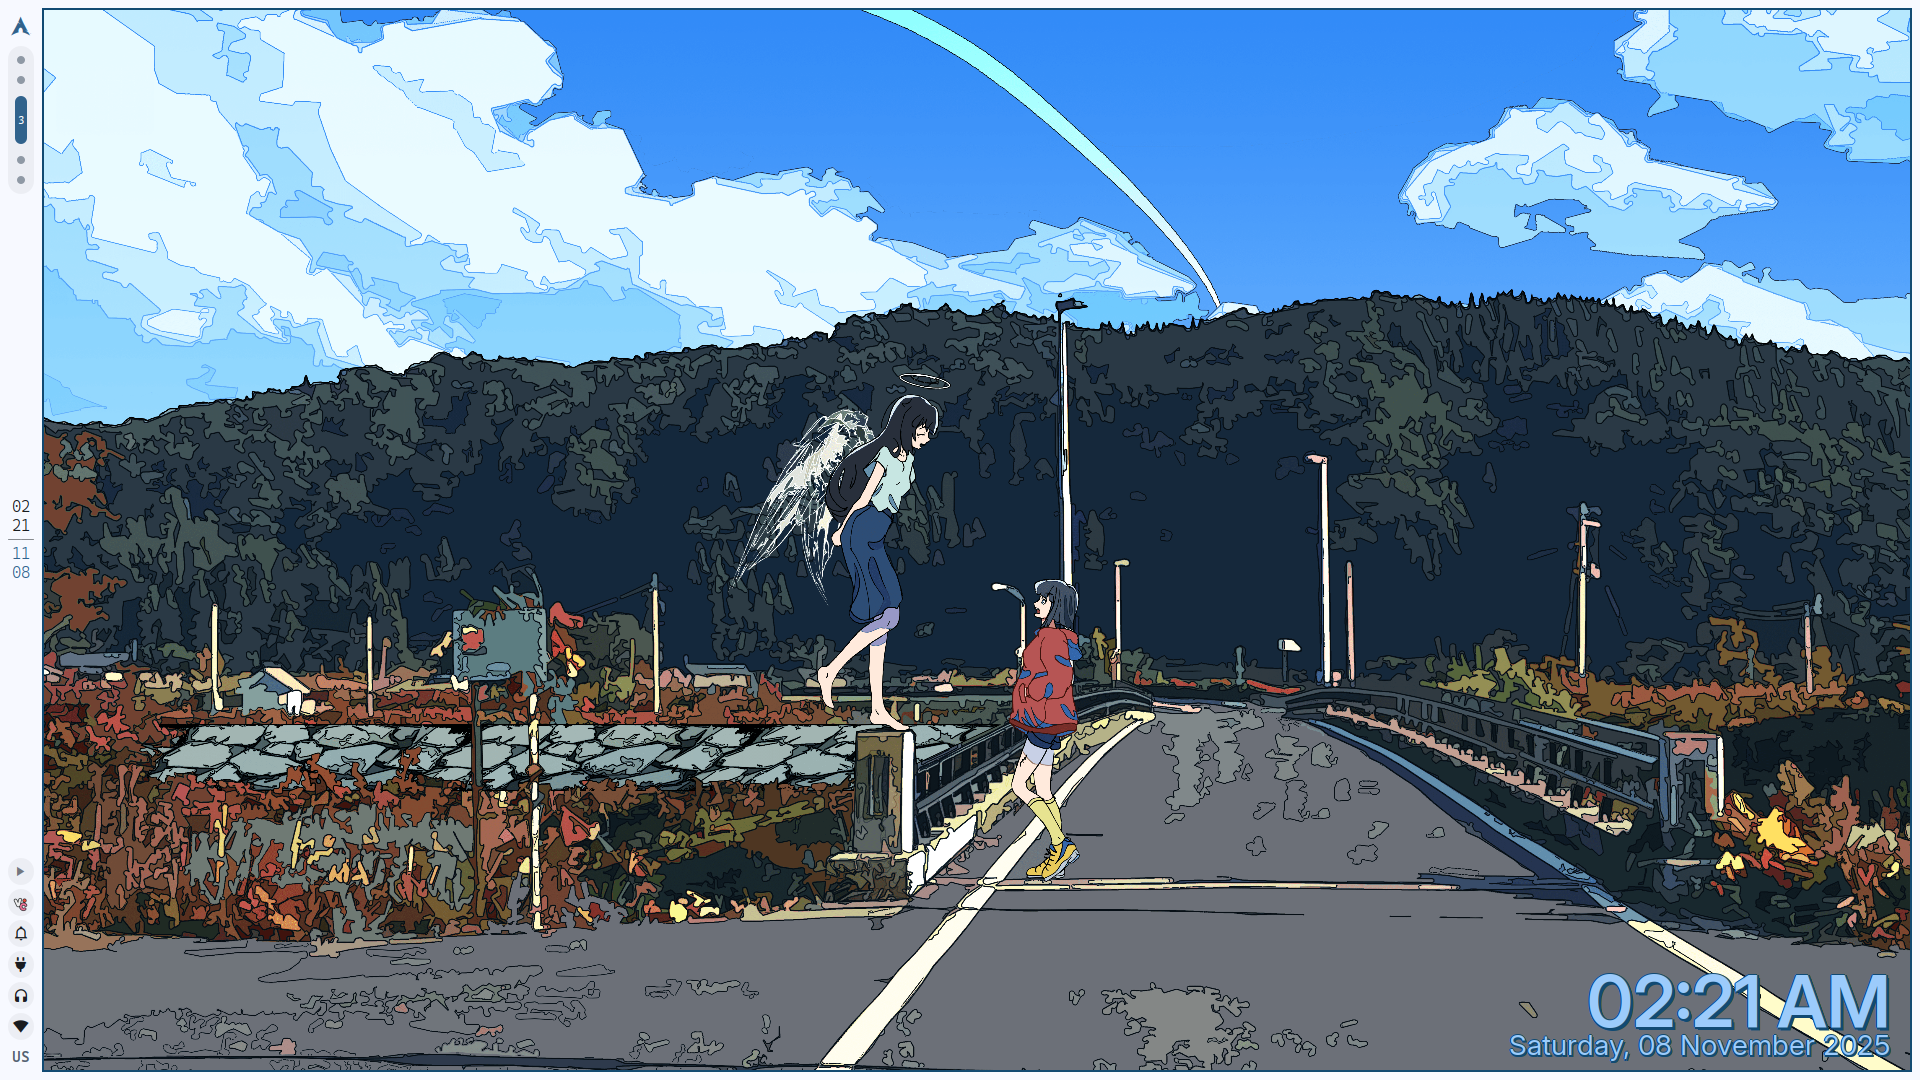
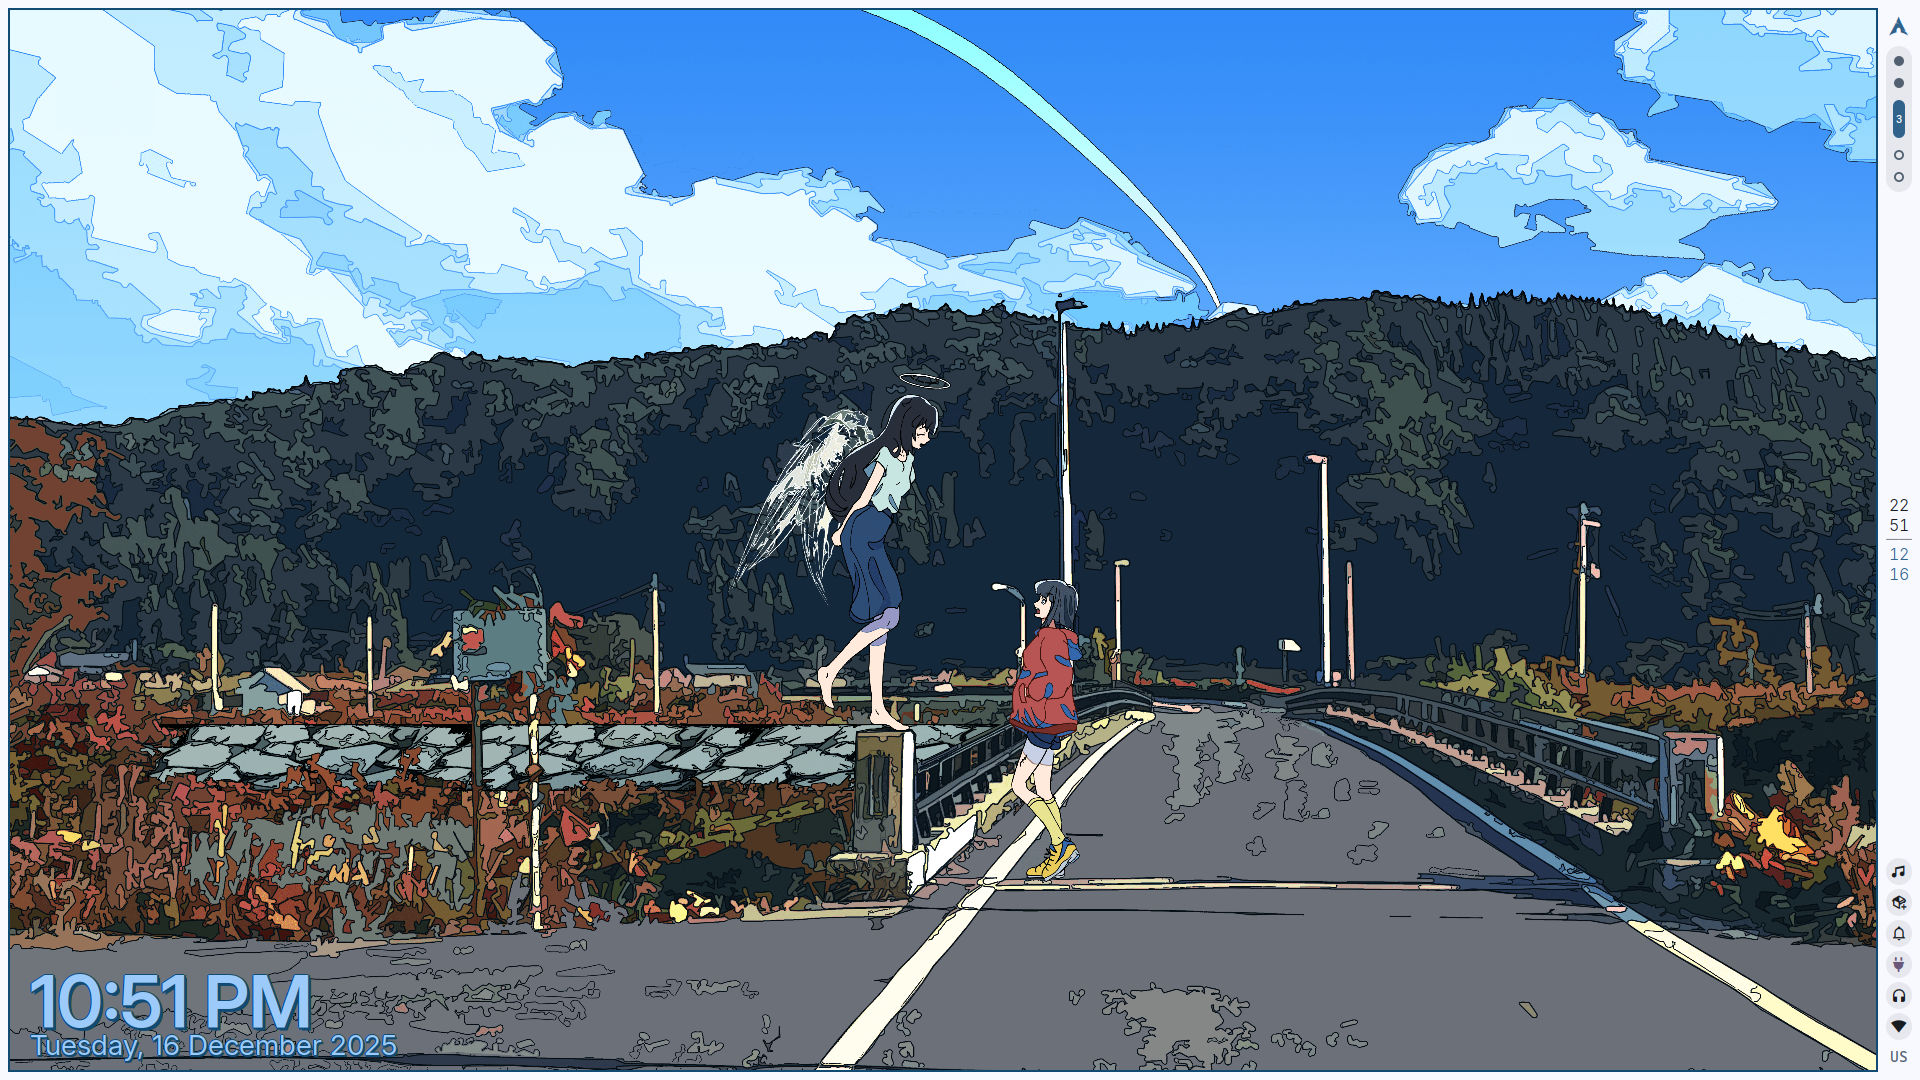
update pics & readme

Changed region(s): [[0.7812, 0.0, 1.0, 1.0], [0.0, 0.0, 0.2188, 1.0]]

diff --git a/README.md b/README.md
@@ -40,7 +40,7 @@ A comfy setup built on [niri](https://github.com/YaLTeR/niri "A scrollable-tilin
 
 ![Setup Preview Image 2](https://raw.githubusercontent.com/SatanAlphabet/dotfiles/main/assets/preview_2.png "Desktop Preview /w Dolphin & fastfetch")
 
-![Setup Preview Image 3](https://raw.githubusercontent.com/SatanAlphabet/dotfiles/main/assets/preview_3.png "Dark Mode /w swaync & Zen Browser")
+![Setup Preview Image 3](https://raw.githubusercontent.com/SatanAlphabet/dotfiles/main/assets/preview_3.png "Dark Mode /w several apps open")
 
 ![Setup Preview Image 4](https://raw.githubusercontent.com/SatanAlphabet/dotfiles/main/assets/preview_4.png "Hyprlock Preview")
 
